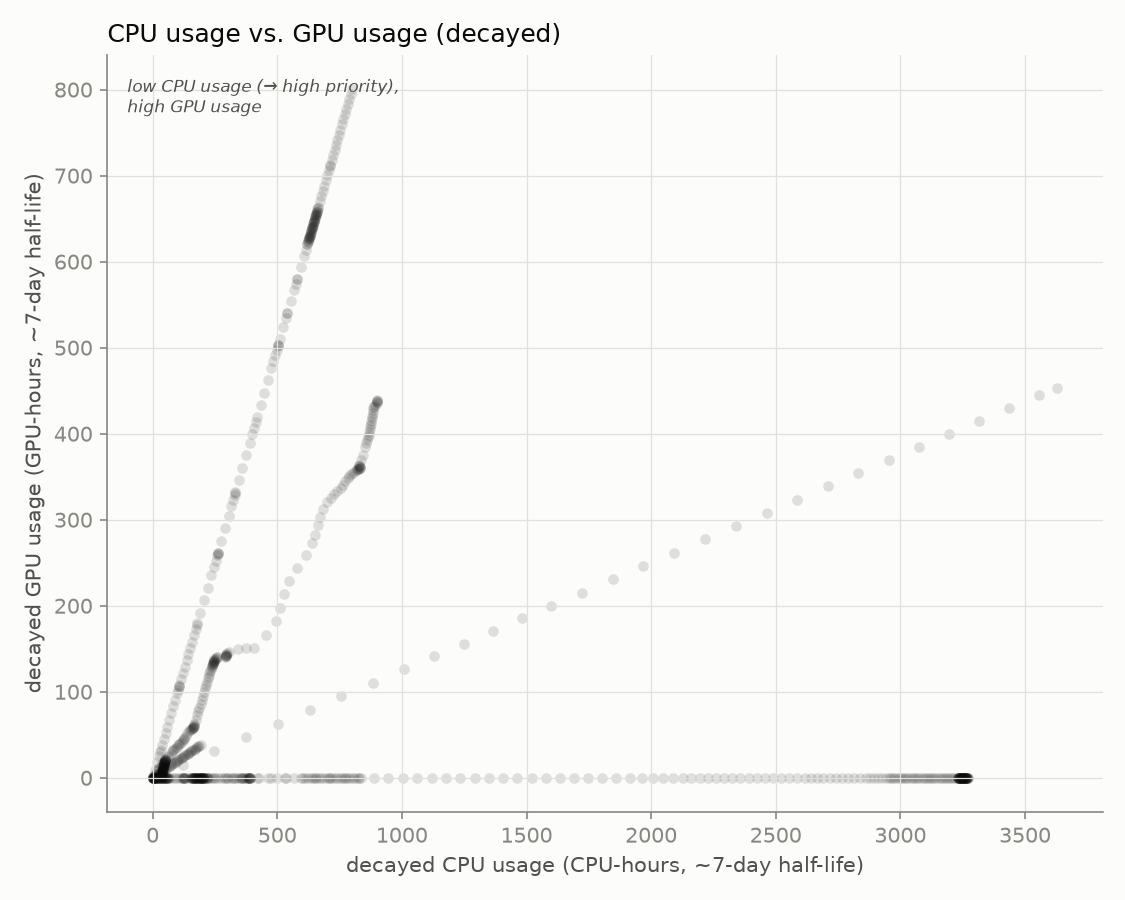
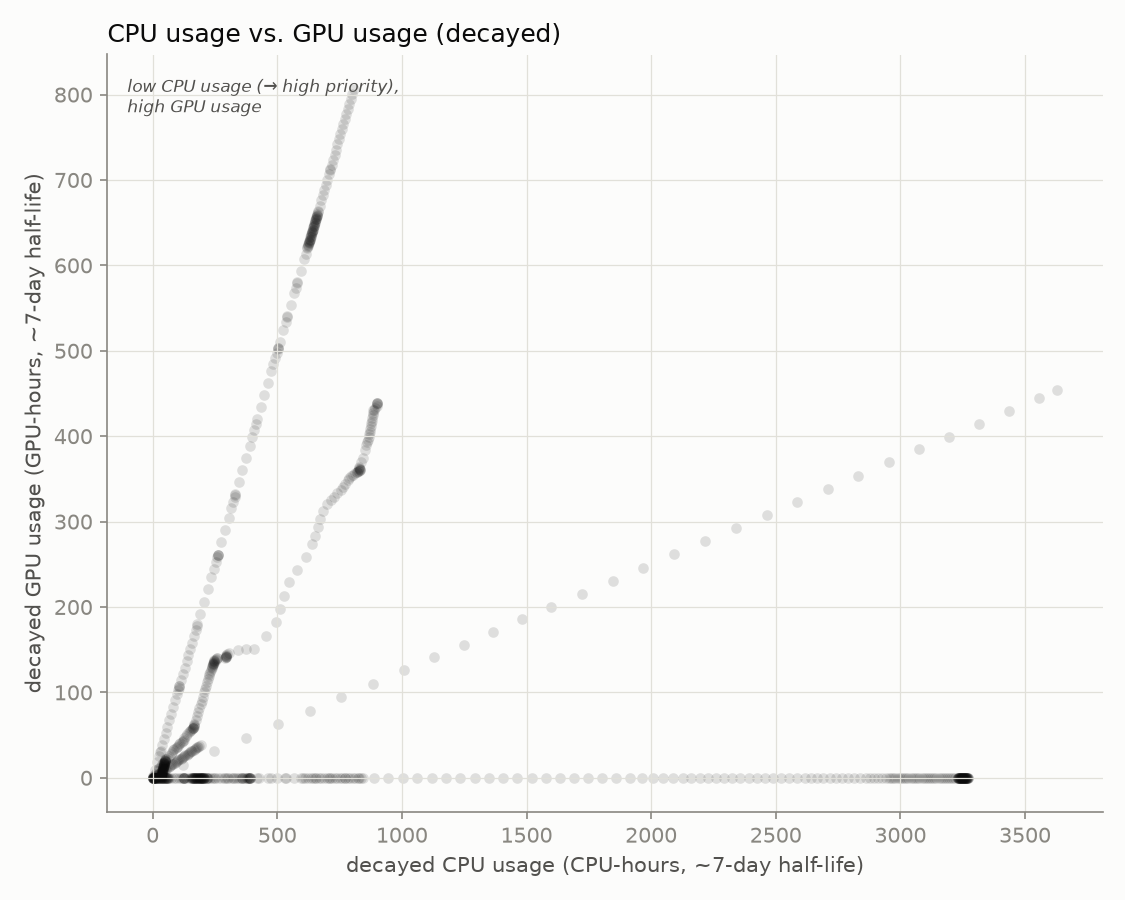
update 2026-08-08T18:30:01-07:00

diff --git a/README.md b/README.md
@@ -2,8 +2,8 @@
 
 Automated GPU/CPU/queue utilization tracker for `hopper.cluster`, updated every 30 minutes by cron. Usernames are anonymized to a stable per-account pseudonym; lab names are real.
 
-Last updated: 2026-08-08T18:00:11-07:00
-Samples: 152 queue snapshots, 152 GPU snapshots
+Last updated: 2026-08-08T18:30:10-07:00
+Samples: 153 queue snapshots, 153 GPU snapshots
 
 ## Resources
 
@@ -16,25 +16,25 @@ Samples: 152 queue snapshots, 152 GPU snapshots
 
 ## Headline
 
-- **43.2%** of the cluster's 60 GPUs allocated, averaged across all samples
-- **45.7%** average `nvidia-smi` utilization *when* a GPU is allocated to a job
-- **88.4%** average cgroup CPU utilization *when* a CPU is allocated to a job
+- **43.1%** of the cluster's 60 GPUs allocated, averaged across all samples
+- **45.8%** average `nvidia-smi` utilization *when* a GPU is allocated to a job
+- **88.3%** average cgroup CPU utilization *when* a CPU is allocated to a job
 
 ## Per lab / per user
 
 <table>
 <tr><th>Lab</th><th>User</th><th align='right'>GPU-hours allocated</th><th align='right'>CPU-hours allocated</th><th align='right'>GPU utilization</th></tr>
-<tr style='background-color:#d8ecd8'><td>zhuang-lab</td><td>user-0db9ced0</td><td align='right'>947.0</td><td align='right'>947.0</td><td align='right'>42%</td></tr>
+<tr style='background-color:#d8ecd8'><td>zhuang-lab</td><td>user-0db9ced0</td><td align='right'>954.5</td><td align='right'>954.5</td><td align='right'>42%</td></tr>
 <tr style='background-color:#d8efef'><td>witter-lab</td><td>user-554c620c</td><td align='right'>493.5</td><td align='right'>1023.0</td><td align='right'>68%</td></tr>
 <tr style='background-color:#d8efef'><td>witter-lab</td><td>user-d58f5a15</td><td align='right'>467.5</td><td align='right'>3740.0</td><td align='right'>9%</td></tr>
 <tr style='background-color:#fbebf1'><td>nerenberg-lab</td><td>user-6bb5f332</td><td align='right'>40.0</td><td align='right'>200.0</td><td align='right'>71%</td></tr>
 <tr style='background-color:#fbebf1'><td>nerenberg-lab</td><td>user-fedb5feb</td><td align='right'>22.5</td><td align='right'>54.0</td><td align='right'>67%</td></tr>
-<tr style='background-color:#dfeaf8'><td>enkavi-lab</td><td>user-c21bdaa4</td><td align='right'>0.0</td><td align='right'>201.0</td><td align='right'>—</td></tr>
-<tr style='background-color:#fcf0d8'><td>ibarragarciapadilla-lab</td><td>user-eec7ffae</td><td align='right'>0.0</td><td align='right'>426.5</td><td align='right'>—</td></tr>
 <tr style='background-color:#fbebf1'><td>nerenberg-lab</td><td>user-b12dc074</td><td align='right'>0.0</td><td align='right'>16.0</td><td align='right'>—</td></tr>
-<tr style='background-color:#fcf0d8'><td>ibarragarciapadilla-lab</td><td>user-3cfc41a3</td><td align='right'>0.0</td><td align='right'>4065.0</td><td align='right'>—</td></tr>
+<tr style='background-color:#fce8e0'><td>gillen-lab</td><td>user-b89a87ef</td><td align='right'>0.0</td><td align='right'>888.0</td><td align='right'>—</td></tr>
+<tr style='background-color:#fcf0d8'><td>ibarragarciapadilla-lab</td><td>user-3cfc41a3</td><td align='right'>0.0</td><td align='right'>4072.5</td><td align='right'>—</td></tr>
 <tr style='background-color:#fcf0d8'><td>ibarragarciapadilla-lab</td><td>user-dad71a72</td><td align='right'>0.0</td><td align='right'>6.0</td><td align='right'>—</td></tr>
-<tr style='background-color:#fce8e0'><td>gillen-lab</td><td>user-b89a87ef</td><td align='right'>0.0</td><td align='right'>876.0</td><td align='right'>—</td></tr>
+<tr style='background-color:#fcf0d8'><td>ibarragarciapadilla-lab</td><td>user-eec7ffae</td><td align='right'>0.0</td><td align='right'>426.5</td><td align='right'>—</td></tr>
+<tr style='background-color:#dfeaf8'><td>enkavi-lab</td><td>user-c21bdaa4</td><td align='right'>0.0</td><td align='right'>203.0</td><td align='right'>—</td></tr>
 </table>
 
 ## Usage over time
@@ -45,7 +45,7 @@ Samples: 152 queue snapshots, 152 GPU snapshots
 
 Solid = utilized by lab, hatched = allocated but idle, gray = usage not traceable to a lab, dashed line = cluster capacity.
 
-Attribution combines `nvidia-smi`'s process listing with Slurm's GPU-to-job binding record; the latter caught **2831** readings the former missed.
+Attribution combines `nvidia-smi`'s process listing with Slurm's GPU-to-job binding record; the latter caught **2842** readings the former missed.
 
 ## Queue
 
@@ -57,13 +57,13 @@ Attribution combines `nvidia-smi`'s process listing with Slurm's GPU-to-job bind
 
 ![CPU usage vs GPU usage, decayed](assets/cpu_gpu_usage.png)
 
-One point per user per snapshot (n=723), usage decayed on Slurm's ~7-day fairshare half-life.
+One point per user per snapshot (n=727), usage decayed on Slurm's ~7-day fairshare half-life.
 
 **GPU usage doesn't count toward priority on this cluster** (`TRESBillingWeights`/`PriorityWeightTRES` unset) - watch the **upper-left**: low CPU usage (high priority) with high GPU usage.
 
 ## Recommendations
 
-1. **Weight GPU usage in fairshare.** `TRESBillingWeights` and `PriorityWeightTRES` are both unset right now, so Slurm's fairshare score only sees CPU-seconds - a job holding 4 idle L40S GPUs costs nothing in priority as long as it isn't also holding CPUs. That's the exact failure mode the scatter above is built to catch (upper-left: low CPU usage, high GPU usage). Fix: `scontrol update partition=main TRESBillingWeights=CPU=1.0,GRES/gpu=<weight>` (or set `PriorityWeightTRES` cluster-wide), then `scontrol reconfigure` - a full `slurmctld` restart also works but drops in-flight priority state. A reasonable starting point for `<weight>` is the CPUs-per-GPU ratio on a GPU node (128 CPUs / 4 GPUs = 32), so one GPU costs as much fairshare as the CPU share it displaces; tune from there against next week's headline numbers (43.2% allocated, 45.7% utilized when allocated, as of this snapshot). The weight value itself is a policy call - loop in whoever owns cluster allocation policy before changing it.
+1. **Weight GPU usage in fairshare.** `TRESBillingWeights` and `PriorityWeightTRES` are both unset right now, so Slurm's fairshare score only sees CPU-seconds - a job holding 4 idle L40S GPUs costs nothing in priority as long as it isn't also holding CPUs. That's the exact failure mode the scatter above is built to catch (upper-left: low CPU usage, high GPU usage). Fix: `scontrol update partition=main TRESBillingWeights=CPU=1.0,GRES/gpu=<weight>` (or set `PriorityWeightTRES` cluster-wide), then `scontrol reconfigure` - a full `slurmctld` restart also works but drops in-flight priority state. A reasonable starting point for `<weight>` is the CPUs-per-GPU ratio on a GPU node (128 CPUs / 4 GPUs = 32), so one GPU costs as much fairshare as the CPU share it displaces; tune from there against next week's headline numbers (43.1% allocated, 45.8% utilized when allocated, as of this snapshot). The weight value itself is a policy call - loop in whoever owns cluster allocation policy before changing it.
 
 2. **Escalate on sustained low utilization** (see table and scatter above). Right now the clearest candidate is `user-d58f5a15` in `witter-lab`: 467.5 GPU-hours allocated at 9% average utilization, i.e. roughly 424 GPU-hours that sat idle instead of going to someone in the queue. Turning that into an automated escalation needs two decisions made up front: a utilization threshold (something like under 20% mean utilization over at least 50 allocated GPU-hours is a defensible starting bar - loose enough to skip short debugging runs, tight enough to catch parked allocations) and a grace period (how many consecutive low-utilization snapshots before it counts as "sustained" rather than a momentary lull between batches). Once those are set, the mechanism can be either soft (a bot that reads `data/gpu_samples.jsonl` and reminds the user/lab by email or Slack) or hard (a Slurm-side QOS penalty, e.g. `sacctmgr modify qos <qos> set Priority-=<n>`, applied after N consecutive offending snapshots). Neither exists yet - today the table and scatter above are a read-only signal, not an enforced policy.
 
